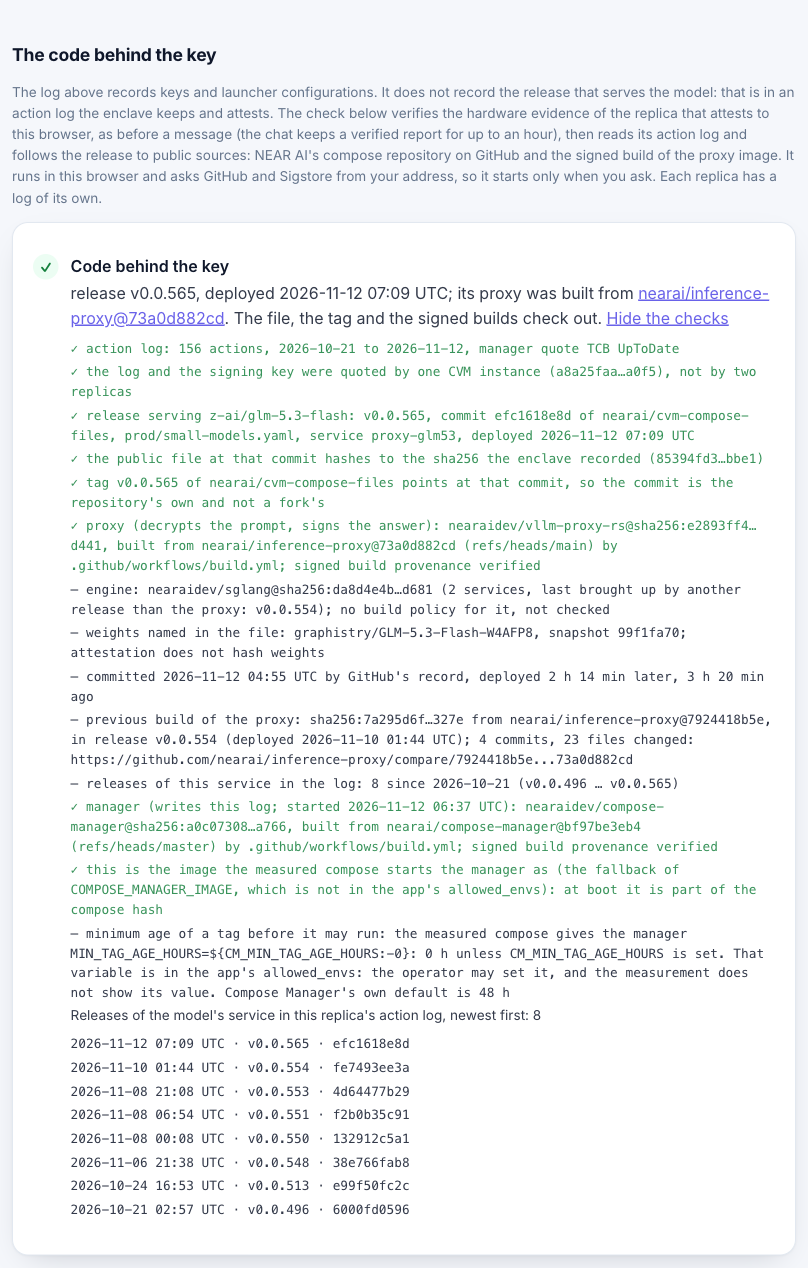
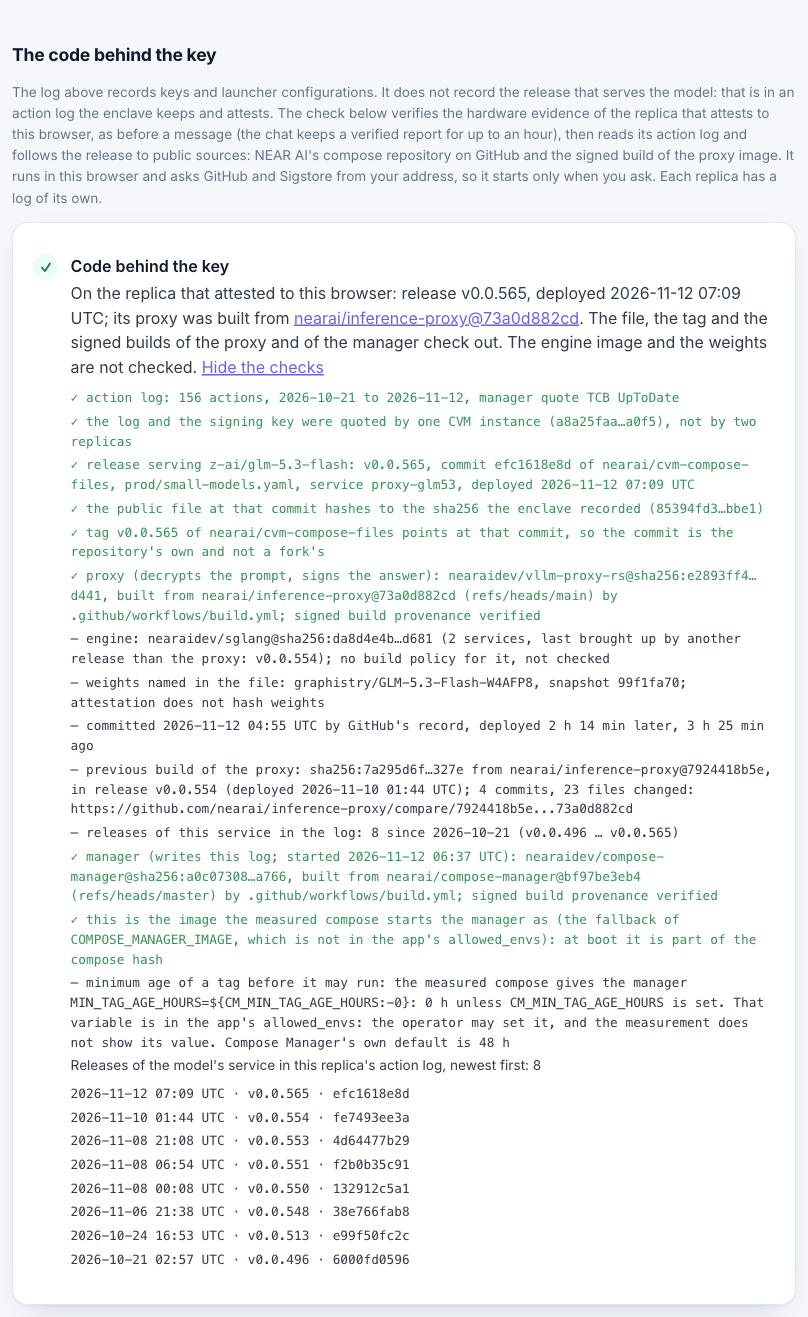
refactor(web): the release check after review
- A result in which every check was made is kept for the session, keyed by the
  state of the action log it read: a second card or a second click costs no
  GitHub request. One with something unchecked is not kept, and the line then
  offers to check again.
- The green line says what it covers: the file, the tag and the signed builds
  of the proxy and of the manager. The engine image and the weights are not
  checked, and it says so.
- The line names whose log it read: the replica that attested to this browser.
- A check that could not be made (offline, the chunk not loaded) is drawn in
  the neutral tone. Red is kept for hardware evidence that did not verify and
  for a check that failed.
- One name for a release (`releaseName`), no local aliases in the wording
  module, explicit exports in the Node wrapper.

Changed region(s): [[0.0, 0.0308, 0.9592, 0.9842]]

diff --git a/packages/proof/src/release-lines.ts b/packages/proof/src/release-lines.ts
@@ -3,7 +3,7 @@
 // language of the interface, like the other check details of this package.
 import type { Checked } from './checked.ts';
 import { shortHex } from './hash.ts';
-import { COMPOSE_REPOSITORY, spanText, timeOf } from './release.ts';
+import { COMPOSE_REPOSITORY, spanText, timeOf, type Release } from './release.ts';
 import type { ImageCheck, ReleaseInspection, ServiceRelease, SourceChange } from './release-chain.ts';
 
 /** One fact of an inspection: `ok` was checked and held, `fail` was checked and did not, `skipped` was not checked or is only a reading. */
@@ -23,12 +23,12 @@ export const utcText = (time: string): string => {
   const iso = isoOf(time);
   return iso ? `${iso.slice(0, 16).replace('T', ' ')} UTC` : 'an unreadable time';
 };
-const utc = utcText;
 const day = (time: string): string => isoOf(time)?.slice(0, 10) ?? 'an unreadable date';
 const digestText = (digest: string | undefined): string => (digest ? `sha256:${shortHex(digest.replace(/^sha256:/, ''))}` : 'no digest');
+/** What a release is called: its tag, or the start of its commit id when the action carried none. */
+export const releaseName = (release: Release): string => release.tag ?? release.commit.slice(0, 10);
 /** `1 commit`, `4 commits`. */
 export const countText = (n: number, noun: string): string => `${n} ${noun}${n === 1 ? '' : 's'}`;
-const count = countText;
 
 /** One line for a check: what it found, or why it failed, or why it was not made. */
 function say<T>(add: Add, check: Checked<T>, text: { ok: (value: T) => string; fail: string; skipped: string }): void {
@@ -48,14 +48,14 @@ function imageLine(add: Add, role: string, { image, provenance }: ImageCheck): v
 /** From the previous build's source to the current one's. A current build that lacks commits the previous one had is a step back. */
 function sourceText({ ahead, behind, files }: SourceChange): string {
   if (ahead === 0 && behind === 0) return 'the same source commit';
-  const forward = `${count(ahead, 'commit')}, ${files >= 300 ? '300 or more files' : count(files, 'file')} changed`; // GitHub's comparison lists at most 300 files
+  const forward = `${countText(ahead, 'commit')}, ${files >= 300 ? '300 or more files' : countText(files, 'file')} changed`; // GitHub's comparison lists at most 300 files
   if (behind === 0) return forward;
-  return ahead === 0 ? `an older source: ${count(behind, 'commit')} behind the previous build` : `a diverged source: ${forward}, and ${count(behind, 'commit')} of the previous build missing`;
+  return ahead === 0 ? `an older source: ${countText(behind, 'commit')} behind the previous build` : `a diverged source: ${forward}, and ${countText(behind, 'commit')} of the previous build missing`;
 }
 
 function serviceLines(add: Add, s: ServiceRelease, model: string, now: number): void {
   const r = s.release;
-  add('ok', `release serving ${model}: ${r.tag ? `${r.tag}, ` : ''}commit ${r.commit.slice(0, 10)} of ${COMPOSE_REPOSITORY}, ${r.file}, service ${s.service}, deployed ${utc(r.deployedAt)}`);
+  add('ok', `release serving ${model}: ${r.tag ? `${r.tag}, ` : ''}commit ${r.commit.slice(0, 10)} of ${COMPOSE_REPOSITORY}, ${r.file}, service ${s.service}, deployed ${utcText(r.deployedAt)}`);
   say(add, s.file, { ok: (f) => `the public file at that commit hashes to the sha256 the enclave recorded (${shortHex(f.sha256)})`, fail: 'the file does not match', skipped: 'the file was not compared' });
   say(add, s.tag, { ok: (tag) => `tag ${tag} of ${COMPOSE_REPOSITORY} points at that commit, so the commit is the repository's own and not a fork's`, fail: 'the tag does not match', skipped: "the tag was not checked, so the commit may be a fork's" });
   if (s.proxy) imageLine(add, 'proxy (decrypts the prompt, signs the answer)', s.proxy);
@@ -63,27 +63,27 @@ function serviceLines(add: Add, s: ServiceRelease, model: string, now: number): 
   if (s.engines.length === 0) add('skipped', 'engine: the file names none through VLLM_BACKEND_URLS that this reads');
   else {
     // An engine can be brought up alone: one whose own latest release is not the proxy's is shown as that release defines it.
-    const apart = [...new Set(s.engines.flatMap((e) => (e.release ? [e.release.tag ?? e.release.commit.slice(0, 10)] : [])))];
-    add('skipped', `engine: ${[...new Set(s.engines.map((e) => (e.image ? `${e.image.repository}@${digestText(e.image.digest)}` : 'image not read')))].join(', ')} (${count(s.engines.length, 'service')}${apart.length > 0 ? `, last brought up by another release than the proxy: ${apart.join(', ')}` : ''}); no build policy for it, not checked`);
+    const apart = [...new Set(s.engines.flatMap((e) => (e.release ? [releaseName(e.release)] : [])))];
+    add('skipped', `engine: ${[...new Set(s.engines.map((e) => (e.image ? `${e.image.repository}@${digestText(e.image.digest)}` : 'image not read')))].join(', ')} (${countText(s.engines.length, 'service')}${apart.length > 0 ? `, last brought up by another release than the proxy: ${apart.join(', ')}` : ''}); no build policy for it, not checked`);
   }
   const weights = [...new Set(s.engines.flatMap((e) => (e.weights ? [`${e.weights.repository}, snapshot ${e.weights.snapshot.slice(0, 8)}`] : [])))];
   if (weights.length > 0) add('skipped', `weights named in the file: ${weights.join('; ')}; attestation does not hash weights`);
   // Two clocks nobody attests: a reading, so never a check mark.
-  if (s.committedAt.status === 'ok') add('skipped', `committed ${utc(s.committedAt.value)} by GitHub's record, deployed ${spanText(timeOf(r.deployedAt) - timeOf(s.committedAt.value))} later, ${spanText(now - timeOf(r.deployedAt))} ago`);
+  if (s.committedAt.status === 'ok') add('skipped', `committed ${utcText(s.committedAt.value)} by GitHub's record, deployed ${spanText(timeOf(r.deployedAt) - timeOf(s.committedAt.value))} later, ${spanText(now - timeOf(r.deployedAt))} ago`);
   else add('skipped', `when the commit was made: not checked: ${s.committedAt.why}`);
   if (s.previousBuild) {
     const { release: was, proxy, change } = s.previousBuild;
     const source = proxy.provenance.status === 'ok' ? ` from ${proxy.provenance.value.repository}@${proxy.provenance.value.commit.slice(0, 10)}` : '';
     const delta = change.status === 'ok' ? `; ${sourceText(change.value)}: ${change.value.url}` : '';
-    add(proxy.provenance.status === 'fail' ? 'fail' : 'skipped', `previous build of the proxy: ${digestText(proxy.image.digest)}${source}, in release ${was.tag ?? was.commit.slice(0, 10)} (deployed ${utc(was.deployedAt)})${delta}${proxy.provenance.status === 'fail' ? `; its build provenance did not verify: ${proxy.provenance.why}` : ''}`);
+    add(proxy.provenance.status === 'fail' ? 'fail' : 'skipped', `previous build of the proxy: ${digestText(proxy.image.digest)}${source}, in release ${releaseName(was)} (deployed ${utcText(was.deployedAt)})${delta}${proxy.provenance.status === 'fail' ? `; its build provenance did not verify: ${proxy.provenance.why}` : ''}`);
   }
   const first = s.history[0];
-  if (first) add('skipped', `releases of this service in the log: ${s.history.length} since ${day(first.deployedAt)}${s.history.length > 1 ? ` (${first.tag ?? first.commit.slice(0, 10)} … ${r.tag ?? r.commit.slice(0, 10)})` : ''}`);
+  if (first) add('skipped', `releases of this service in the log: ${s.history.length} since ${day(first.deployedAt)}${s.history.length > 1 ? ` (${releaseName(first)} … ${releaseName(r)})` : ''}`);
 }
 
 /** The manager's image, and what the measured compose says about it and about the tag age it demands. */
 function managerLines(add: Add, { manager, launcher }: ReleaseInspection): void {
-  if (manager) imageLine(add, `manager (writes this log; started ${utc(manager.startedAt)})`, manager);
+  if (manager) imageLine(add, `manager (writes this log; started ${utcText(manager.startedAt)})`, manager);
   if (launcher.status !== 'ok') {
     add('skipped', `the measured compose was not read for the manager's image and tag age: ${launcher.why}`);
     return;
@@ -113,7 +113,7 @@ export function describeRelease(inspection: ReleaseInspection, { model, now = Da
   const lines: ReleaseLine[] = [];
   const add: Add = (status, text) => void lines.push({ status, text });
   const { log } = inspection;
-  add('ok', `action log: ${log.actions === 0 ? 'no actions' : `${count(log.actions, 'action')}, ${day(log.since)} to ${day(log.until)}`}, manager quote TCB ${log.tcbStatus}`);
+  add('ok', `action log: ${log.actions === 0 ? 'no actions' : `${countText(log.actions, 'action')}, ${day(log.since)} to ${day(log.until)}`}, manager quote TCB ${log.tcbStatus}`);
   say(add, log.instance, { ok: (id) => `the log and the signing key were quoted by one CVM instance (${shortHex(id)}), not by two replicas`, fail: "this is another machine's log", skipped: "whether the log is this replica's was not checked" });
   if (inspection.unresolved) add('skipped', `the release serving ${model} was not resolved: ${inspection.unresolved}`);
   for (const s of inspection.services) serviceLines(add, s, model, now);
@@ -121,5 +121,5 @@ export function describeRelease(inspection: ReleaseInspection, { model, now = Da
   const [served] = inspection.services;
   if (!served) return { lines };
   const built = served.proxy?.provenance.status === 'ok' ? `, proxy built from ${served.proxy.provenance.value.repository}@${served.proxy.provenance.value.commit.slice(0, 10)}` : '';
-  return { lines, summary: `release ${served.release.tag ?? served.release.commit.slice(0, 10)} deployed ${utc(served.release.deployedAt)}${built}` };
+  return { lines, summary: `release ${releaseName(served.release)} deployed ${utcText(served.release.deployedAt)}${built}` };
 }

diff --git a/apps/web/components/release-row.tsx b/apps/web/components/release-row.tsx
@@ -1,20 +1,22 @@
 'use client';
-// The "Code behind the key" line of the proof card. The other lines were checked before the message left; this one is
-// checked when the visitor asks, because it sends requests from their browser to GitHub and Sigstore (lib/release.ts).
+// The "Code behind the key" line of the proof card and of /log. The other lines of a card were checked before the
+// message left; this one is checked when the visitor asks, because it sends requests from their browser to GitHub and
+// Sigstore (lib/release.ts, loaded on the click).
 import { useState } from 'react';
-import type { VerifiedModelAttestation } from '@nearai/inference-sdk';
+import { getSdkError, isVerificationError, type VerifiedModelAttestation } from '@nearai/inference-sdk';
 import { useT } from '@/app/providers';
 import { describeError } from '@/lib/errors';
 import type { ReleaseCheck } from '@/lib/release';
 import { Row, mark } from './checks';
 
-type State = { kind: 'idle' } | { kind: 'running' } | { kind: 'done'; check: ReleaseCheck } | { kind: 'error'; why: string };
+/** `failed` on an error: the hardware evidence itself did not verify. Anything else thrown is a check that could not be made. */
+type State = { kind: 'idle' } | { kind: 'running' } | { kind: 'done'; check: ReleaseCheck } | { kind: 'error'; why: string; failed: boolean };
 
 /**
- * `attestation` is the verified report the card already holds, or a way to get one (the /log page has none until asked).
+ * `attest` gives the verified report to read: the card hands over the one it already holds, /log verifies one when asked.
  * `history` adds the list of the service's releases under the line.
  */
-export function ReleaseRow({ attestation, model, hint, history = false }: { attestation: VerifiedModelAttestation | (() => Promise<VerifiedModelAttestation>); model: string; hint?: string | undefined; history?: boolean }) {
+export function ReleaseRow({ attest, model, hint, history = false }: { attest: () => Promise<VerifiedModelAttestation>; model: string; hint?: string | undefined; history?: boolean }) {
   const { t } = useT();
   const [state, setState] = useState<State>({ kind: 'idle' });
   const [open, setOpen] = useState(false);
@@ -22,14 +24,16 @@ export function ReleaseRow({ attestation, model, hint, history = false }: { atte
   const run = async () => {
     setState({ kind: 'running' });
     try {
-      const [{ checkRelease }, verified] = await Promise.all([import('@/lib/release'), typeof attestation === 'function' ? attestation() : attestation]);
-      setState({ kind: 'done', check: await checkRelease(verified, model) });
+      const [{ checkRelease }, attestation] = await Promise.all([import('@/lib/release'), attest()]);
+      setState({ kind: 'done', check: await checkRelease(attestation, model) });
     } catch (err) {
-      setState({ kind: 'error', why: describeError(err) });
+      const refused = getSdkError(err);
+      setState({ kind: 'error', why: describeError(err), failed: isVerificationError(refused) && !refused.retryable });
     }
   };
 
-  const status = state.kind === 'done' ? state.check.status : state.kind === 'running' ? 'running' : state.kind === 'error' ? 'fail' : 'skipped';
+  const status = state.kind === 'done' ? state.check.status : state.kind === 'running' ? 'running' : state.kind === 'error' && state.failed ? 'fail' : 'skipped';
+  const again = <button type="button" className="btn small" onClick={run}>{t.codeAgain}</button>;
   return (
     <Row status={status} label={t.rowCode} {...(hint ? { hint } : {})}>
       {state.kind === 'idle' && (
@@ -39,16 +43,13 @@ export function ReleaseRow({ attestation, model, hint, history = false }: { atte
         </>
       )}
       {state.kind === 'running' && t.codeRunning}
-      {state.kind === 'error' && (
-        <>
-          {t.codeError} <span lang="en">{state.why}</span>{' '}
-          <button type="button" className="btn small" onClick={run}>{t.codeAgain}</button>
-        </>
-      )}
+      {state.kind === 'error' && <>{state.failed ? t.codeFailed : t.codeError} <span lang="en">{state.why}</span> {again}</>}
       {state.kind === 'done' && (
         <>
           <ReleaseSummary check={state.check} />{' '}
-          <button type="button" className="linklike" aria-expanded={open} onClick={() => setOpen((v) => !v)}>{open ? t.codeHide : t.codeDetails}</button>
+          {state.check.lines.length > 0 && <button type="button" className="linklike" aria-expanded={open} onClick={() => setOpen((v) => !v)}>{open ? t.codeHide : t.codeDetails}</button>}
+          {/* Something was not checked, perhaps only because GitHub did not answer: asking again can do better. */}
+          {state.check.status === 'skipped' && <> {again}</>}
           {open && (
             <ul className="mono checks sentences" lang="en">
               {state.check.lines.map((l, i) => (
@@ -72,12 +73,14 @@ export function ReleaseRow({ attestation, model, hint, history = false }: { atte
   );
 }
 
-/** One sentence for the row: the release and where its proxy was built from, then what failed or was not checked. */
+/** One sentence for the row: the release and where its proxy was built from, then what failed, what was not checked, or what held. */
 function ReleaseSummary({ check }: { check: ReleaseCheck }) {
   const { t } = useT();
   const { release, failures, unchecked, unresolved } = check;
   if (!release) return <>{t.codeUnresolved} <span lang="en">{unresolved}</span></>;
   const built = release.builtFrom;
+  // The first failure is enough to read the line as failed; everything that was not checked is named.
+  const verdict = failures.length > 0 ? <>{t.codeFailed} <span lang="en">{failures[0]}</span></> : unchecked.length > 0 ? <>{t.codeUnchecked} <span lang="en">{unchecked.join('; ')}</span></> : t.codeAllHeld;
   return (
     <>
       {t.codeRelease(release.name, release.deployedAt)}
@@ -88,7 +91,7 @@ function ReleaseSummary({ check }: { check: ReleaseCheck }) {
         </>
       )}
       {'. '}
-      {failures.length > 0 ? <>{t.codeFailed} <span lang="en">{failures[0]}</span></> : unchecked.length > 0 ? <>{t.codeUnchecked} <span lang="en">{unchecked.join('; ')}</span></> : t.codeAllHeld}
+      {verdict}
     </>
   );
 }

diff --git a/apps/web/lib/release.ts b/apps/web/lib/release.ts
@@ -1,12 +1,12 @@
 // The release behind the key, checked in this browser: the chain of @ainek/proof/release-chain with the image checks of
 // the SDK's root entry. It asks GitHub (the compose file, the tag, the build proofs) and Sigstore (the trust root) from
 // the visitor's own address, without a token, so it runs only when the visitor asks for it: GitHub allows 60 anonymous
-// requests an hour from one address and one check uses up to eight. Import it on demand: it brings the YAML parser.
+// requests an hour from one address and one check uses up to eight. Import it on demand: it brings the chain with it.
 //
-// What it reads is the action log of the replica that attested before the message was sent. Replicas of a model share a
-// signing key and the gateway picks one per connection, so the replica that answered may be another one.
+// What it reads is the action log of the replica that attested to this browser. Replicas of a model share a signing key
+// and the gateway picks one per connection, so the replica that answers a message may be another one.
 import { fetchImageProvenance, getSdkError, verifyImageProvenance, type VerifiedModelAttestation } from '@nearai/inference-sdk';
-import { describeRelease, failedChecks, inspectRelease, uncheckedChecks, utcText, type ReleaseLine } from '@ainek/proof/release-chain';
+import { describeRelease, failedChecks, inspectRelease, releaseName, uncheckedChecks, utcText, type ReleaseLine } from '@ainek/proof/release-chain';
 
 export interface ReleaseCheck {
   /** `ok`: every check of the release was made and held. `fail`: one did not hold. `skipped`: nothing failed, and something was not checked. */
@@ -24,20 +24,40 @@ export interface ReleaseCheck {
   lines: ReleaseLine[];
 }
 
-/** `fetch` is the one GitHub is read with; tests pass a fake. */
-export async function checkRelease(attestation: Pick<VerifiedModelAttestation, 'deployment' | 'report'>, model: string, fetch: typeof globalThis.fetch = globalThis.fetch): Promise<ReleaseCheck> {
+type Attested = Pick<VerifiedModelAttestation, 'deployment' | 'report'>;
+
+/** Conclusive checks of this session, by model and by the state of the action log they read. */
+const checked = new Map<string, ReleaseCheck>();
+
+/**
+ * Follows the action log of a verified model report to the release that serves `model`. A result in which every check was
+ * made is kept for the session, so a second card or a second click costs no request; one in which something could not be
+ * checked is not kept, so that asking again can do better. `fetch` is the one GitHub is read with; tests pass a fake.
+ */
+export async function checkRelease(attestation: Attested, model: string, fetch: typeof globalThis.fetch = globalThis.fetch): Promise<ReleaseCheck> {
+  const log = attestation.deployment.composeManager?.actions ?? [];
+  const key = `${model}|${log.length}|${log.at(-1)?.timestamp ?? ''}`;
+  const kept = checked.get(key);
+  if (kept) return kept;
+  const check = await inspect(attestation, model, fetch);
+  if (check.release && check.unchecked.length === 0) checked.set(key, check);
+  return check;
+}
+
+async function inspect(attestation: Attested, model: string, fetch: typeof globalThis.fetch): Promise<ReleaseCheck> {
   const inspection = await inspectRelease({ deployment: attestation.deployment, report: attestation.report, model, fetch, sdk: { fetchImageProvenance, verifyImageProvenance, getSdkError } });
   if (!inspection) return { status: 'skipped', failures: [], unchecked: [], unresolved: 'this model report carries no action log', history: [], lines: [] };
   const failures = failedChecks(inspection);
   const unchecked = uncheckedChecks(inspection);
+  // Every service of the model feeds the checks; the first is the one the sentence names.
   const [served] = inspection.services;
   const built = served?.proxy?.provenance;
   return {
-    status: failures.length > 0 ? 'fail' : served && unchecked.length === 0 ? 'ok' : 'skipped',
+    status: failures.length > 0 ? 'fail' : served !== undefined && unchecked.length === 0 ? 'ok' : 'skipped',
     ...(served
       ? {
           release: {
-            name: served.release.tag ?? served.release.commit.slice(0, 10),
+            name: releaseName(served.release),
             file: served.release.file,
             deployedAt: utcText(served.release.deployedAt),
             ...(built?.status === 'ok' ? { builtFrom: { repository: built.value.repository, commit: built.value.commit } } : {}),
@@ -47,7 +67,8 @@ export async function checkRelease(attestation: Pick<VerifiedModelAttestation, '
     failures,
     unchecked,
     ...(inspection.unresolved ? { unresolved: inspection.unresolved } : {}),
-    history: (served?.history ?? []).map((r) => ({ name: r.tag ?? r.commit.slice(0, 10), commit: r.commit, deployedAt: utcText(r.deployedAt) })).reverse(),
+    // The log is oldest first.
+    history: (served?.history ?? []).map((r) => ({ name: releaseName(r), commit: r.commit, deployedAt: utcText(r.deployedAt) })).reverse(),
     lines: describeRelease(inspection, { model }).lines,
   };
 }

diff --git a/apps/web/lib/i18n.ts b/apps/web/lib/i18n.ts
@@ -47,12 +47,12 @@ const en = {
   codeAgain: 'Try again',
   codeDetails: 'Show every check',
   codeHide: 'Hide the checks',
-  codeUnresolved: 'The release was not resolved:',
-  codeRelease: (name: string, when: string) => `release ${name}, deployed ${when}`,
+  codeUnresolved: 'The release could not be resolved:',
+  codeRelease: (name: string, when: string) => `On the replica that attested to this browser: release ${name}, deployed ${when}`,
   codeBuiltFrom: '; its proxy was built from',
   codeFailed: 'A check failed:',
   codeUnchecked: 'Not checked:',
-  codeAllHeld: 'The file, the tag and the signed builds check out.',
+  codeAllHeld: 'The file, the tag and the signed builds of the proxy and of the manager check out. The engine image and the weights are not checked.',
   codeHistory: (n: number) => `Releases of the model's service in this replica's action log, newest first: ${n}`,
   rowChain: 'On NEAR',
   chainPending: 'only a salted hash will go on-chain; commit_proof is not in the contract yet',
@@ -421,12 +421,12 @@ const ru: typeof en = {
   codeAgain: 'Повторить',
   codeDetails: 'Показать все проверки',
   codeHide: 'Скрыть проверки',
-  codeUnresolved: 'Релиз не найден:',
-  codeRelease: (name: string, when: string) => `релиз ${name}, запущен ${when}`,
+  codeUnresolved: 'Релиз не удалось определить:',
+  codeRelease: (name: string, when: string) => `На реплике, прошедшей аттестацию перед этим браузером: релиз ${name}, запущен ${when}`,
   codeBuiltFrom: '; его proxy собран из',
   codeFailed: 'Проверка не прошла:',
   codeUnchecked: 'Не проверено:',
-  codeAllHeld: 'Файл, тег и подписанные сборки сходятся.',
+  codeAllHeld: 'Файл, тег и подписанные сборки proxy и менеджера сходятся. Образ движка и веса не проверяются.',
   codeHistory: (n: number) => `Релизы сервиса модели в журнале действий этой реплики, от новых к старым: ${n}`,
   rowChain: 'В NEAR',
   chainPending: 'в цепочку уйдёт только солёный хеш; commit_proof в контракте ещё нет',

diff --git a/packages/tier1-node/src/release.ts b/packages/tier1-node/src/release.ts
@@ -2,13 +2,12 @@
 // entry, which asks GitHub and Sigstore directly. What the chain establishes and what it does not is at the top of that
 // module and in docs/CLAIMS.md.
 import { fetchImageProvenance, getSdkError, verifyImageProvenance } from '@nearai/inference-sdk/node';
-import { inspectRelease as inspect, type InspectReleaseParams, type ProvenanceSdk, type ReleaseInspection } from '@ainek/proof/release-chain';
+import { inspectRelease as inspect, type InspectReleaseParams, type ReleaseInspection } from '@ainek/proof/release-chain';
 
-export * from '@ainek/proof/release-chain';
+export type * from '@ainek/proof/release-chain';
+export { COMPOSE_REPOSITORY, IMAGE_POLICIES, countText, describeRelease, failedChecks, leadTimes, releaseName, uncheckedChecks, utcText } from '@ainek/proof/release-chain';
 
-const sdk: ProvenanceSdk = { fetchImageProvenance, verifyImageProvenance, getSdkError };
-
-/** `inspectRelease` of @ainek/proof/release-chain, with this SDK. */
+/** The chain with this SDK's image checks. */
 export function inspectRelease(params: Omit<InspectReleaseParams, 'sdk'>): Promise<ReleaseInspection | undefined> {
-  return inspect({ ...params, sdk });
+  return inspect({ ...params, sdk: { fetchImageProvenance, verifyImageProvenance, getSdkError } });
 }

diff --git a/apps/web/lib/release.test.ts b/apps/web/lib/release.test.ts
@@ -32,6 +32,20 @@ test('checkRelease: the release, its history newest first, and no green while so
   assert.ok(check.lines.some((l) => l.status === 'ok' && l.text.includes('tag v0.0.2')));
 });
 
+test('checkRelease: a result with nothing left unchecked is kept for the session; one with something unchecked is asked for again', async () => {
+  let requests = 0;
+  const counting = ((...args: Parameters<typeof globalThis.fetch>) => {
+    requests += 1;
+    return github(...args);
+  }) as typeof globalThis.fetch;
+  // Something stays unchecked here (no build policy for the image): every call reads GitHub again.
+  const log = [up('2026-11-05T10:00:00Z', B, 'v0.0.2')];
+  await checkRelease(attestation(log), MODEL, counting);
+  const first = requests;
+  await checkRelease(attestation(log), MODEL, counting);
+  assert.ok(first > 0 && requests === 2 * first, `${first} requests, then ${requests - first} more`);
+});
+
 test('checkRelease: a file that does not match is a failure; a report without an action log is not checked', async () => {
   const bad = await checkRelease(attestation([up('2026-11-03T10:00:00Z', B, 'v0.0.2', 'f'.repeat(64))]), MODEL, github);
   assert.equal(bad.status, 'fail');

diff --git a/apps/web/components/proof-card.tsx b/apps/web/components/proof-card.tsx
@@ -90,7 +90,7 @@ export const ProofCard = memo(function ProofCard({ outcome, onCommit, onRetry }:
       <Row status="ok" label={t.rowKey} hint={hint('key')}>{t.keyLine(logEntry.index, keyVerdict.confirmedBy.join(', '), since)}{logSource === 'sample' ? ` (${t.sampleEntry})` : ''}{` (${normalizeHex(logEntry.compose_hash) === composeHash ? t.sameCompose : t.otherCompose})`}</Row>
       <Row status="ok" label={t.rowHashes} hint={hint('hashes')}>{t.hashesOk}</Row>
       <Row status="ok" label={t.rowE2ee} hint={hint('e2ee')}>{t.e2eeYes}</Row>
-      <ReleaseRow attestation={m} model={proof.model} hint={hint('code')} />
+      <ReleaseRow attest={async () => m} model={proof.model} hint={hint('code')} />
       <Row status={proof.commitTx || outcome.commit === 'committed' ? 'ok' : 'skipped'} label={t.rowChain} hint={hint(proof.commitTx || outcome.commit === 'committed' ? 'chain' : 'chainPending')}>
         {proof.commitTx ? (
           <>{t.chainTx(short(commit))} <a href={explorerTxUrl(cfg.explorer, proof.commitTx)} target="_blank" rel="noreferrer">{short(proof.commitTx)}</a> <CopyButton text={proof.commitTx} /></>

diff --git a/apps/web/app/log/page.tsx b/apps/web/app/log/page.tsx
@@ -142,7 +142,7 @@ export default function LogPage() {
         <h2>{tl.code.title}</h2>
         <p className="muted small">{tl.code.intro}</p>
         <div className="card">
-          <ReleaseRow attestation={attestNow} model={cfg.model} history />
+          <ReleaseRow attest={attestNow} model={cfg.model} history />
         </div>
       </section>
 

diff --git a/packages/proof/src/release-chain.ts b/packages/proof/src/release-chain.ts
@@ -513,5 +513,5 @@ export async function leadTimes(actions: readonly ManagerAction[], file: string,
   return out;
 }
 
-export { countText, describeRelease, utcText } from './release-lines.ts';
+export { countText, describeRelease, releaseName, utcText } from './release-lines.ts';
 export type { ReleaseLine } from './release-lines.ts';
